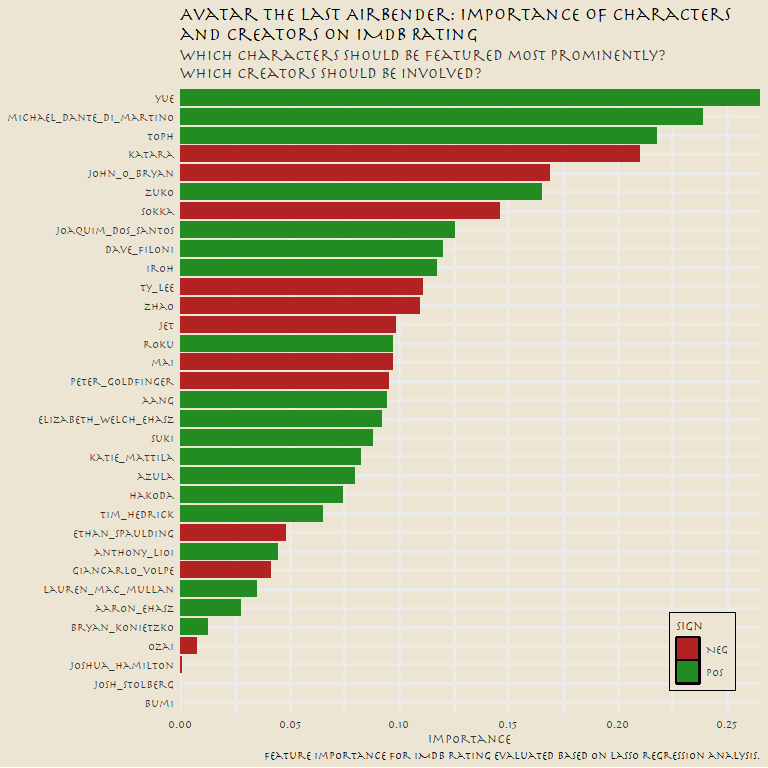
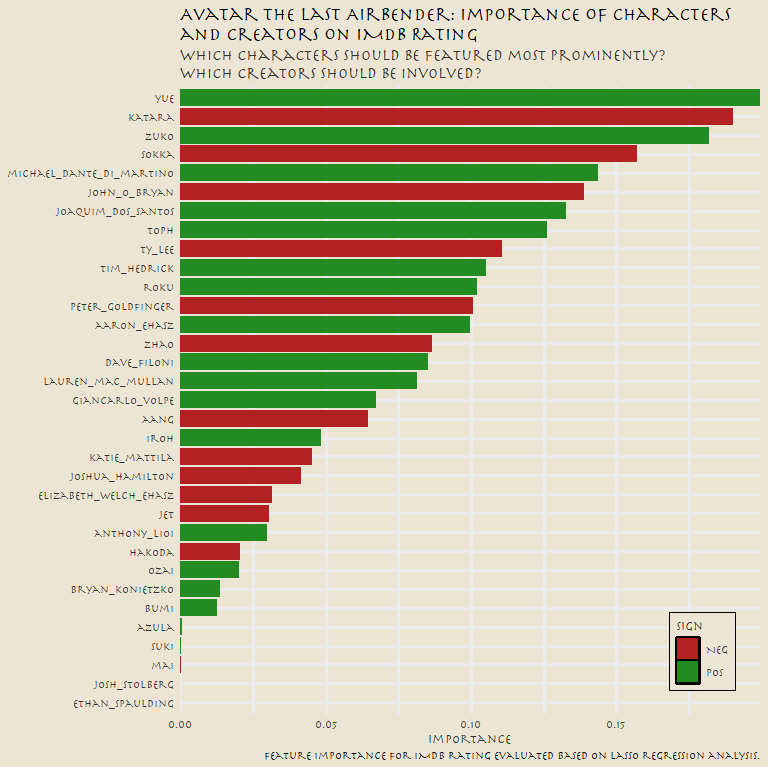
finalize analysis

diff --git a/avatar_20200811/avatar_analysis.md b/avatar_20200811/avatar_analysis.md
@@ -303,7 +303,7 @@ script_words <- avatar %>%
          !(word %in% token_blacklist)) #remove extra stopwords
 
 ##bigrams
-bigram_blacklist <- c("the dai", "aang i", "uncle i")
+bigram_blacklist <- c("the dai", "aang i", "uncle i", "zuko you")
 
 script_bigrams <- avatar %>%
   add_count(character) %>% #add a column adding all lines per character
@@ -333,15 +333,11 @@ character. There are some interesting terms which fall into this
 category, which at first glance would not appear to. For example,
 Azula’s top term is “Zuzu”, which is actually a childhood pet name for
 her brother Zuko, which she frequently uses throughout the show in a
-condescending way. Similarly, two of Toph’s top terms are “Twinkle” and
-“Toes”, both of which seem like very odd terms in a vacuum. This is
-where allowing for bigrams would have come in handy, as the two terms
-are nearly always used in tandem as a personal nickname for Aang. Here
-the terms have noticeably different TF-IDF scores (0.023 vs 0.017)
-likely because other characters in the show use the term “toes”. Another
-interesting anomaly which would have been solved by allowing for bigrams
-is that many of the words that made the Top 10 cut are either part of a
-two
+condescending way. Additionally, Toph’s top term is “Twinkle Toes”,
+which is a pet nickname for Aang. Names and nicknames aside, many of
+each characters top terms provide a good succint summary of what that
+character is about. Some of the top terms were somewhat surprising
+(Azula: Tides, Zuko: Southern Raiders).
 
 ``` r
 character_tf_idf %>%
@@ -384,9 +380,33 @@ character_tf_idf %>%
 
 ![](avatar_analysis_files/figure-gfm/tf_idf%20by%20main%20character-1.png)<!-- -->
 
-## Machine Learning
+## Machine Learning: Lasso Regression
 
-Inspired by Julia Silge: <https://juliasilge.com/blog/lasso-the-office/>
+### Introduction
+
+With some exploratory data anlysis performed, there is a possibility for
+some machine learning to be applied to the dataset provided.
+Specifically, the entire script is provided for each episode
+(predictor), alongside an IMDb rating (outcome). After reshaping the
+dataset to create columns for how prevalent each character is in each
+episode, alongside which creators (writers and directors) were involved
+or not, the implementation of lasso regression analysis should be able
+to create a model to predict the IMDb rating.
+
+Lasso (least absolute shrinkage and selection operator) regression is a
+type of linear regression which is good for simple sparse models. It is
+a type of linear regression which employs a penalty value equal to the
+absolute value of the magnitude of coefficients. This penalty score has
+the effect of setting parameter weights to zero for the least
+influential variables.
+
+### Pre-Lasso Data Manipulation
+
+The first step in the lasso regression is to tidy up the data to prepare
+it for modeling.
+
+First, the episode names need to be trimmed and tidied. Removing all
+punctuations, parts, and capitalization.
 
 ``` r
 remove_regex <- "[:punct:]|[:digit:]|parts |parts |part |the |and" # be careful defining this
@@ -399,6 +419,9 @@ avatar_info <- avatar %>%
     chap = str_trim(chap),
     imdb_rating
   )
+
+avatar_ratings <- avatar_info %>%
+  distinct(chap, imdb_rating)
 
 avatar_info
 ```
@@ -419,12 +442,12 @@ avatar_info
     ## # ... with 13,375 more rows, and 4 more variables: writer <chr>,
     ## #   director <chr>, imdb_rating <dbl>, chap <chr>
 
-``` r
-avatar_ratings <- avatar_info %>%
-  distinct(chap, imdb_rating)
-```
-
-How many times did each character speak per episode?
+Next, a count is made for each character for each they spoke per
+episode. Characters who have fewer than 50 lines throughout the entire
+show are trimmed out to make the resulting dataframe somewhat more
+meaningful. Then, dataframe is pivoted wider, where each row is an
+episode of the show and each column is a character line count for that
+episode.
 
 ``` r
 characters <- avatar_info %>%
@@ -458,7 +481,10 @@ characters
     ## # ... with 49 more rows, and 6 more variables: Hakoda <int>, Ozai <int>,
     ## #   Yue <int>, Zhao <int>, Jet <int>, Bumi <int>
 
-Which writers/directors were involved in each episode?
+A similar series of data manipulation tasks are performed for each
+creator (writers and directors). Major difference being that instead of
+how many lines per character per episode, it is a simple boolean value
+of whether the creator was involved with the episode (1) or not (0).
 
 ``` r
 creators <- avatar_info %>%
@@ -497,7 +523,8 @@ creators
     ## #   Welch Ehasz` <dbl>, `Joshua Hamilton` <dbl>, `Ethan Spaulding` <dbl>,
     ## #   `Katie Mattila` <dbl>, `Joaquim Dos Santos` <dbl>
 
-Join everything together
+Finally, the characters and creators were joined together to create the
+final dataframe to be used for the lasso regression.
 
 ``` r
 df <- avatar_info %>%
@@ -542,24 +569,13 @@ df
     ## #   ethan_spaulding <dbl>, katie_mattila <dbl>, joaquim_dos_santos <dbl>,
     ## #   imdb_rating <dbl>
 
-Some brief exploratory data analysis (EDA)
+### Training the model
 
-``` r
-df %>%
-  ggplot(aes(chapter_num, imdb_rating, fill = as.factor(chapter_num))) + 
-  geom_boxplot(show.legend = FALSE) + 
-  labs(
-    title  = "Prelim Avatar EDA"
-  ) + 
-  theme_avatar(title.font = "Herculanum",
-               text.font = "Herculanum")
-```
-
-![](avatar_analysis_files/figure-gfm/unnamed-chunk-9-1.png)<!-- -->
-
-## Training the model
-
-Perform initial split.
+Now that the avatar script has been rehaped into a format which can be
+used for lasso regression, the first step of any machine learning task
+is to perform a train-test split of the dataframe. The model is trained
+on the “Train” split, with the “Test” split withheld until the end to
+assess the the accuracy of the model.
 
 ``` r
 df_split <- initial_split(df, strata = book_num)
@@ -567,7 +583,11 @@ df_train <- training(df_split)
 df_test <- training(df_split)
 ```
 
-Preprocessing. Mainly setting index.
+Preprocessing is then performed on df\_train. Here the book and chapter
+columns are set as “ID” columns so that they are not used as predictors.
+Some other “steps” in the “recipe” included filtering out any variables
+which had zero variance (only value). The normalization step normalizes
+numeric data to have a mean of zero and a standard deviation of 1.
 
 ``` r
 df_rec <- recipe(imdb_rating ~ ., data = df_train) %>%
@@ -580,17 +600,11 @@ df_rec <- recipe(imdb_rating ~ ., data = df_train) %>%
 
 df_prep <- df_rec %>%
   prep(strings_as_factors = FALSE)
-
-#recipe(imdb_rating ~ ., data = df_train) %>%
-  #update_role(book, new_role = "ID") %>%
-  #update_role(book_num, new_role = "ID") %>%
-  #update_role(chap, new_role = "ID") %>%
-  #update_role(chapter_num, new_role = "ID") %>%
-  #step_zv(all_predictors(), -all_outcomes()) %>%
-  #step_normalize(all_predictors(), -all_outcomes())
 ```
 
-assign model (linear\_reg lasso) and fit the training data to it.
+After the “recipe” has been prepared, the lasso regression model is
+defined with an arbitray penalty value. A `workflow()` is used for
+convenience to help manage modelling pipelines.
 
 ``` r
 lasso <- linear_reg(penalty = 0.1, mixture = 1) %>%
@@ -608,24 +622,26 @@ lasso_fit %>%
   tidy()
 ```
 
-    ## # A tibble: 1,733 x 5
+    ## # A tibble: 1,624 x 5
     ##    term         step estimate lambda dev.ratio
     ##    <chr>       <dbl>    <dbl>  <dbl>     <dbl>
-    ##  1 (Intercept)     1  8.72     0.283    0     
-    ##  2 (Intercept)     2  8.72     0.258    0.0392
-    ##  3 katara          2 -0.0254   0.258    0.0392
-    ##  4 (Intercept)     3  8.72     0.235    0.0717
-    ##  5 katara          3 -0.0485   0.235    0.0717
-    ##  6 (Intercept)     4  8.72     0.214    0.0987
-    ##  7 katara          4 -0.0696   0.214    0.0987
-    ##  8 (Intercept)     5  8.72     0.195    0.123 
-    ##  9 katara          5 -0.0888   0.195    0.123 
-    ## 10 yue             5  0.00214  0.195    0.123 
-    ## # ... with 1,723 more rows
+    ##  1 (Intercept)     1   8.79    0.339    0     
+    ##  2 (Intercept)     2   8.79    0.309    0.0646
+    ##  3 katara          2  -0.0304  0.309    0.0646
+    ##  4 (Intercept)     3   8.79    0.282    0.118 
+    ##  5 katara          3  -0.0582  0.282    0.118 
+    ##  6 (Intercept)     4   8.79    0.257    0.163 
+    ##  7 katara          4  -0.0834  0.257    0.163 
+    ##  8 (Intercept)     5   8.79    0.234    0.200 
+    ##  9 katara          5  -0.106   0.234    0.200 
+    ## 10 (Intercept)     6   8.79    0.213    0.230 
+    ## # ... with 1,614 more rows
 
-tune the lasso model
+### Tuning the model
 
-define parameters to tune by
+As stated above, the penalty value which was initially chosen was done
+so in a more or less random manner. Using a bootstrap and `penalty =
+tune()`, an optimal penalty value can be arrived at for the dataframe.
 
 ``` r
 set.seed(1494)
@@ -637,7 +653,7 @@ tune_spec <- linear_reg(penalty = tune(), mixture = 1) %>%
 lambda_grid <- grid_regular(penalty(), levels = 50)
 ```
 
-tune the grid using workflow objects
+The grid of bootstraps is then tuned using the workflow object.
 
 ``` r
 doParallel::registerDoParallel()
@@ -646,7 +662,7 @@ doParallel::registerDoParallel()
 ``` r
 set.seed(1994)
 
-# is this like GridSearchCV?
+# Similar to GridSearchCV in python
 lasso_grid <- tune_grid(
   wf %>% add_model(tune_spec),
   resamples = df_boot,
@@ -654,7 +670,7 @@ lasso_grid <- tune_grid(
 )
 ```
 
-Here are the results
+The results from the tuned grid are as follows.
 
 ``` r
 lasso_grid %>%
@@ -662,21 +678,22 @@ lasso_grid %>%
 ```
 
     ## # A tibble: 100 x 6
-    ##     penalty .metric .estimator    mean     n std_err
-    ##       <dbl> <chr>   <chr>        <dbl> <int>   <dbl>
-    ##  1 1.00e-10 rmse    standard   10.6       25  7.19  
-    ##  2 1.00e-10 rsq     standard    0.0916    25  0.0203
-    ##  3 1.60e-10 rmse    standard   10.6       25  7.19  
-    ##  4 1.60e-10 rsq     standard    0.0916    25  0.0203
-    ##  5 2.56e-10 rmse    standard   10.6       25  7.19  
-    ##  6 2.56e-10 rsq     standard    0.0916    25  0.0203
-    ##  7 4.09e-10 rmse    standard   10.6       25  7.19  
-    ##  8 4.09e-10 rsq     standard    0.0916    25  0.0203
-    ##  9 6.55e-10 rmse    standard   10.6       25  7.19  
-    ## 10 6.55e-10 rsq     standard    0.0916    25  0.0203
+    ##     penalty .metric .estimator   mean     n std_err
+    ##       <dbl> <chr>   <chr>       <dbl> <int>   <dbl>
+    ##  1 1.00e-10 rmse    standard   7.35      25  4.65  
+    ##  2 1.00e-10 rsq     standard   0.0788    25  0.0185
+    ##  3 1.60e-10 rmse    standard   7.35      25  4.65  
+    ##  4 1.60e-10 rsq     standard   0.0788    25  0.0185
+    ##  5 2.56e-10 rmse    standard   7.35      25  4.65  
+    ##  6 2.56e-10 rsq     standard   0.0788    25  0.0185
+    ##  7 4.09e-10 rmse    standard   7.35      25  4.65  
+    ##  8 4.09e-10 rsq     standard   0.0788    25  0.0185
+    ##  9 6.55e-10 rmse    standard   7.35      25  4.65  
+    ## 10 6.55e-10 rsq     standard   0.0788    25  0.0185
     ## # ... with 90 more rows
 
-Visualize the results
+These tuned lasso results are then plotted to visualize where the
+optimal penalty score lies.
 
 ``` r
 lasso_grid %>%
@@ -695,13 +712,10 @@ lasso_grid %>%
   theme(legend.position = "none")
 ```
 
-    ## Warning: Removed 2 rows containing missing values (geom_errorbar).
+![](avatar_analysis_files/figure-gfm/unnamed-chunk-15-1.png)<!-- -->
 
-    ## Warning: Removed 2 rows containing missing values (geom_path).
-
-![](avatar_analysis_files/figure-gfm/unnamed-chunk-17-1.png)<!-- -->
-
-select best penalty value
+The penalty value with the lowest RMSE (root mean square error) is then
+chosen for the final model.
 
 ``` r
 lowest_rmse <- lasso_grid %>% 
@@ -713,7 +727,12 @@ final_lasso <- finalize_workflow(
 )
 ```
 
-finalize workflow and visualize training data
+The workflow is then finalized with the new penalty score chosen. The
+following graph shows the feature importance for the model learned from
+the `df_train` dataset. Higher importance scores mean that the variable
+was a better predictor for high IMDb scores. Positively scored valeus
+mean the parameter was prominently included in episodes with high IMDb
+ratings, while negative scored values indicate the opposite.
 
 ``` r
 final_lasso %>%
@@ -747,7 +766,8 @@ final_lasso %>%
 
 ![](avatar_analysis_files/figure-gfm/feature%20importance-1.png)<!-- -->
 
-fit model to test data
+Finally, the model is fit to the `df_test` to assess the accuracy of the
+model.
 
 ``` r
 last_fit(
@@ -760,5 +780,37 @@ last_fit(
     ## # A tibble: 2 x 3
     ##   .metric .estimator .estimate
     ##   <chr>   <chr>          <dbl>
-    ## 1 rmse    standard       0.458
-    ## 2 rsq     standard       0.571
+    ## 1 rmse    standard       0.627
+    ## 2 rsq     standard       0.323
+
+``` r
+last_fit(
+  final_lasso,
+  df_split
+  ) %>%
+  collect_predictions()
+```
+
+    ## # A tibble: 15 x 4
+    ##    id               .pred  .row imdb_rating
+    ##    <chr>            <dbl> <int>       <dbl>
+    ##  1 train/test split  8.76     7         8.2
+    ##  2 train/test split  8.22    10         7.8
+    ##  3 train/test split  8.68    11         7.1
+    ##  4 train/test split  8.98    13         9.1
+    ##  5 train/test split  9.02    22         9.4
+    ##  6 train/test split  8.58    24         8.2
+    ##  7 train/test split  8.88    25         8.4
+    ##  8 train/test split  8.76    26         7.7
+    ##  9 train/test split  8.76    32         8.8
+    ## 10 train/test split  9.15    38         8.8
+    ## 11 train/test split  8.67    51         7.8
+    ## 12 train/test split  9.06    57         9.2
+    ## 13 train/test split  9.06    58         8.7
+    ## 14 train/test split  8.49    60         8.9
+    ## 15 train/test split  8.81    61         8.6
+
+## Inspirations
+
+Lasso Regression Analysis of ‘The Office’ by Julia Silge:
+<https://juliasilge.com/blog/lasso-the-office/>
